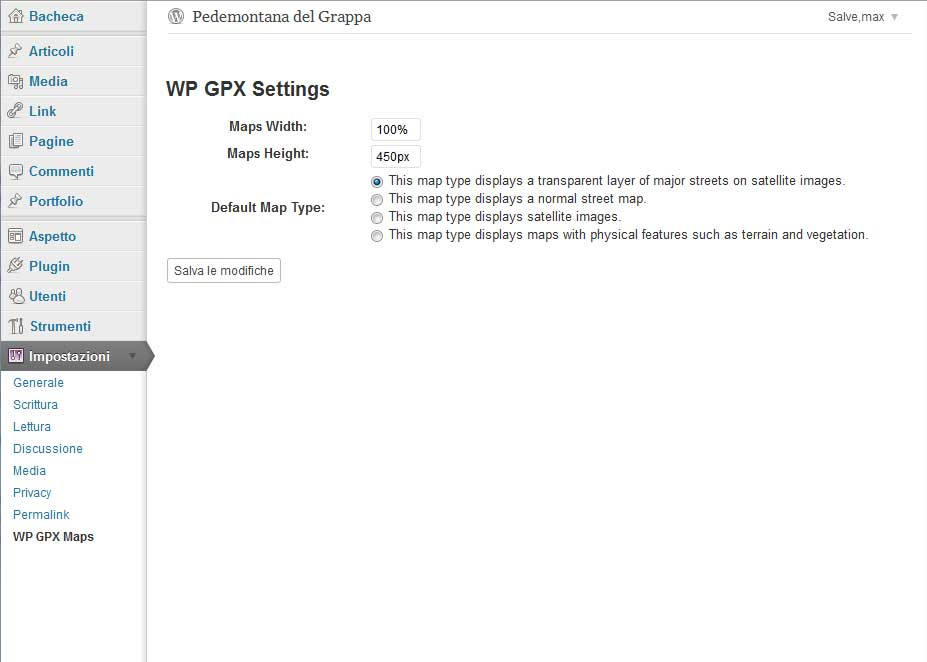
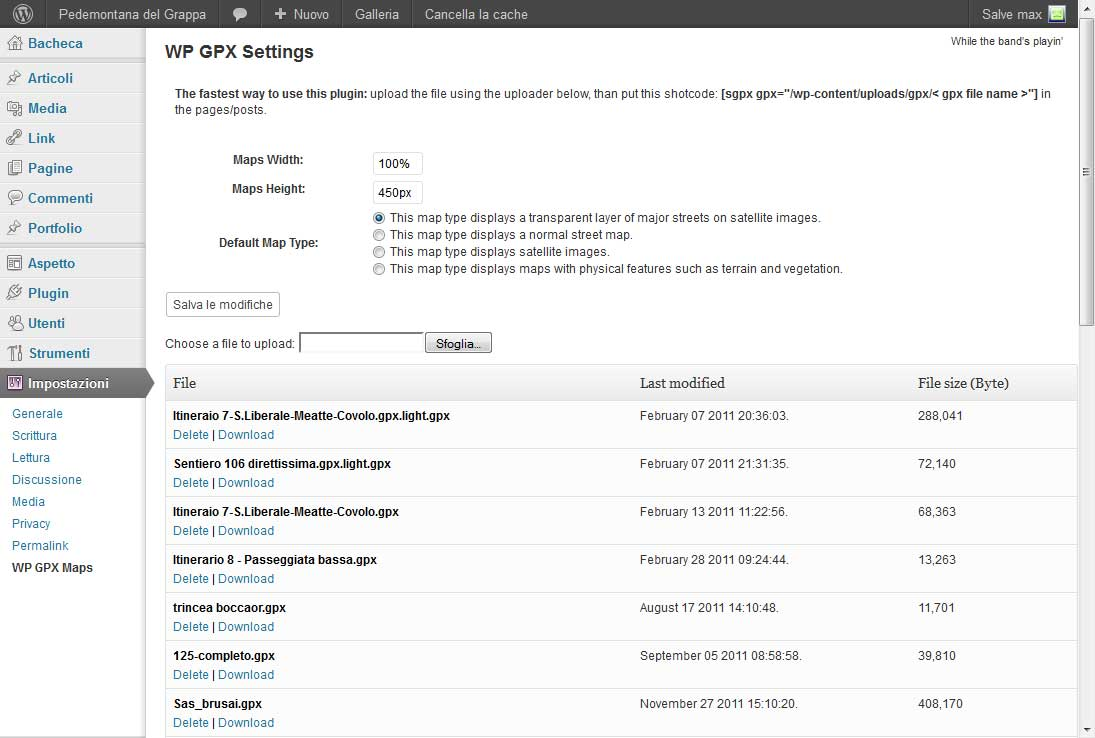
git-svn-id: https://plugins.svn.wordpress.org/wp-gpx-maps/trunk@475962 b8457f37-d9ea-0310-8a92-e5e31aec5664

diff --git a/wp-gpx-maps.php b/wp-gpx-maps.php
@@ -2,8 +2,8 @@
 /*
 Plugin Name: WP-GPX-Maps
 Plugin URI: http://www.darwinner.it/
-Description: Add a gpx track with altitude graph
-Version: 1.0.1
+Description: Add a gpx trak with altitude graph
+Version: 1.0.2
 Author: Bastianon Massimo
 Author URI: http://www.pedemontanadelgrappa.it/
 License: GPL
@@ -24,8 +24,6 @@ function enqueue_WP_GPX_Maps_scripts()
 	<script type='text/javascript' src='<?php echo plugins_url('/wp-gpx-maps.js', __FILE__) ?>'></script>
 <?php
 }
- 
- //add_shortcode('wpgpxmaps','handle_WP_GPX_Maps_Shortcodes');
  
  add_shortcode('sgpx','handle_WP_GPX_Maps_Shortcodes');
 
@@ -65,7 +63,7 @@ function enqueue_WP_GPX_Maps_scripts()
 			});
 			
 		</script>';	
- }
+}
 
 register_activation_hook(__FILE__,'WP_GPX_Maps_install'); 
 register_deactivation_hook( __FILE__, 'WP_GPX_Maps_remove');
@@ -81,9 +79,7 @@ function WP_GPX_Maps_remove() {
 	delete_option('wpgpxmaps_height');
 	delete_option('wpgpxmaps_map_type');
 }
-?>
 
-<?php
 if ( is_admin() ){
 
 	add_action('admin_menu', 'wpgpxmaps_admin_menu');
@@ -92,58 +88,191 @@ if ( is_admin() ){
 		add_options_page('WP GPX Maps', 'WP GPX Maps', 'administrator', 'WP-GPX-Maps', 'WP_GPX_Maps_html_page');
 	}
 }
+
+function WP_GPX_Maps_html_page() {
+
+	$realGpxPath = substr (__FILE__, 0, strrpos(__FILE__,'/wp-content/'))."/wp-content/uploads/gpx";
+	$gpxRegEx = '/.gpx$/';
+
 ?>
+
+<div>
+<h2>WP GPX Settings</h2>	
 
 <?php
-function WP_GPX_Maps_html_page() {
+	
+	if(file_exists($realGpxPath) && is_dir($realGpxPath))
+	{
+		//dir exsist!
+	}
+	else
+	{
+		if (!@mkdir($dir)) {
+			echo '<div class="error" style="padding:10px">
+					Can\'t create <b>'.$realGpxPath.'</b> folder. Please create it and make it writable!<br />
+					If not, you will must update the file manually!
+				  </div>';
+		}
+	}
+
 ?>
-<div>
-<h2>WP GPX Settings</h2>
+
+<div style="padding:10px 10px 30px 10px;">
+	<b>Tips:</b> The fastest way to use this plugin upload the fule using the uploader below, than put this 
+				shotcode: <b>[sgpx gpx="/wp-content/uploads/gpx/&lt gpx file name &gt"]</b> in the pages/posts.
+</div>
 
 <form method="post" action="options.php">
-<?php wp_nonce_field('update-options'); ?>
 
-<table width="100%">
-	<tr valign="top">
-		<th width="200" scope="row">Maps Width:</th>
-		<td>
-			<input name="wpgpxmaps_width" type="text" id="wpgpxmaps_width" value="<?php echo get_option('wpgpxmaps_width'); ?>" style="width:50px;" />
-		</td>
-	</tr>
-	<tr valign="top">
-		<th width="200" scope="row">Maps Height:</th>
-		<td>
-			<input name="wpgpxmaps_height" type="text" id="wpgpxmaps_height" value="<?php echo get_option('wpgpxmaps_height'); ?>" style="width:50px;" />
-		</td>
-	</tr>
-	<tr>
-		<th width="200" scope="row">Default Map Type:</th>
-		<td>
-		
-			<?php 
-				$t = get_option('wpgpxmaps_map_type');
-				if (!($t))
-					$t = 'HYBRID';
-			?>
-			
-			<input type="radio" name="wpgpxmaps_map_type" value="HYBRID" <?php if ($t == 'HYBRID') echo 'checked'; ?> > This map type displays a transparent layer of major streets on satellite images.<br />
-			<input type="radio" name="wpgpxmaps_map_type" value="ROADMAP" <?php if ($t == 'ROADMAP') echo 'checked'; ?>> This map type displays a normal street map.<br />
-			<input type="radio" name="wpgpxmaps_map_type" value="SATELLITE" <?php if ($t == 'SATELLITE') echo 'checked'; ?>> This map type displays satellite images.<br />
-			<input type="radio" name="wpgpxmaps_map_type" value="TERRAIN" <?php if ($t == 'TERRAIN') echo 'checked'; ?>> This map type displays maps with physical features such as terrain and vegetation.<br />
-			
-		</td>
-	</tr>
+	<?php wp_nonce_field('update-options'); ?>
 
-</table>
+	<table width="100%">
+		<tr valign="top">
+			<th width="200" scope="row">Maps Width:</th>
+			<td>
+				<input name="wpgpxmaps_width" type="text" id="wpgpxmaps_width" value="<?php echo get_option('wpgpxmaps_width'); ?>" style="width:50px;" />
+			</td>
+		</tr>
+		<tr valign="top">
+			<th width="200" scope="row">Maps Height:</th>
+			<td>
+				<input name="wpgpxmaps_height" type="text" id="wpgpxmaps_height" value="<?php echo get_option('wpgpxmaps_height'); ?>" style="width:50px;" />
+			</td>
+		</tr>
+		<tr>
+			<th width="200" scope="row">Default Map Type:</th>
+			<td>
+				<?php 
+					$t = get_option('wpgpxmaps_map_type');
+					if (!($t))
+						$t = 'HYBRID';
+				?>
+				<input type="radio" name="wpgpxmaps_map_type" value="HYBRID" <?php if ($t == 'HYBRID') echo 'checked'; ?> > This map type displays a transparent layer of major streets on satellite images.<br />
+				<input type="radio" name="wpgpxmaps_map_type" value="ROADMAP" <?php if ($t == 'ROADMAP') echo 'checked'; ?>> This map type displays a normal street map.<br />
+				<input type="radio" name="wpgpxmaps_map_type" value="SATELLITE" <?php if ($t == 'SATELLITE') echo 'checked'; ?>> This map type displays satellite images.<br />
+				<input type="radio" name="wpgpxmaps_map_type" value="TERRAIN" <?php if ($t == 'TERRAIN') echo 'checked'; ?>> This map type displays maps with physical features such as terrain and vegetation.<br />
+			</td>
+		</tr>
+	</table>
 
-<input type="hidden" name="action" value="update" />
+	<input type="hidden" name="action" value="update" />
 
-<p>
-<input type="submit" value="<?php _e('Save Changes') ?>" />
-</p>
+	<p>
+		<input type="submit" value="<?php _e('Save Changes') ?>" />
+	</p>
 
 </form>
+
+<?php
+
+	if ( isset($_POST['delete']) )
+	{
+		$del = $_POST['delete'];
+		if (preg_match($gpxRegEx, $del ) && file_exists($realGpxPath ."/". $del))
+		{
+			unlink($realGpxPath ."/". $del);
+		}
+	}
+
+	if ( is_readable ( $realGpxPath ) && $handle = opendir($realGpxPath)) { ?>
+	
+		<div class="tablenav top">
+			<form enctype="multipart/form-data" method="POST">
+				<input type="hidden" name="MAX_FILE_SIZE" value="100000" />
+				Choose a file to upload: <input name="uploadedfile" type="file" onchange="this.parentNode.submit()" />
+				<?php
+					if ( isset($_FILES['uploadedfile']) )
+					{
+						$target_path = $realGpxPath ."/". basename( $_FILES['uploadedfile']['name']); 
+						if (preg_match($gpxRegEx,$target_path ))
+						{
+							if(move_uploaded_file($_FILES['uploadedfile']['tmp_name'], $target_path)) {
+								echo "The file ".  basename( $_FILES['uploadedfile']['name']). " has been uploaded";
+							} else{
+								echo "There was an error uploading the file, please try again!";
+							}		
+						}
+						else
+						{
+							echo "file not supported!";
+						}
+					}
+				?>
+			</form>
+		</div>
+
+		<table cellspacing="0" class="wp-list-table widefat plugins">
+			<thead>
+				<tr>
+					<th style="" class="manage-column" id="name" scope="col">File</th>
+					<th style="" class="manage-column" id="name" scope="col">Last modified</th>
+					<th style="" class="manage-column" id="name" scope="col">File size (Byte)</th>
+				</tr>
+			</thead>
+
+			<tfoot>
+				<tr>
+					<th style="" class="manage-column" id="name" scope="col">File</th>
+					<th style="" class="manage-column" id="name" scope="col">Last modified</th>
+					<th style="" class="manage-column" id="name" scope="col">File size (Byte)</th>
+				</tr>
+			</tfoot>
+
+			<tbody id="the-list">
+			
+			<?php
+			while (false !== ($entry = readdir($handle))) {
+				if (preg_match($gpxRegEx,$entry ))
+				{
+				$file = $realGpxPath . "/" . $entry;
+				?>
+					<tr class="active" id="akismet">
+						<td class="plugin-title">
+							<strong><?php echo $entry; ?></strong>
+							<div class="row-actions-visible">
+								<a href="#" onclick="delgpx('<?php echo $entry ?>'); return false;">Delete</a>
+								|	
+								<a href="../wp-content/uploads/gpx/<?php echo $entry?>">Download</a>								
+							</div>
+						</td>
+						<td class="column-description desc">
+							<div class="plugin-description">
+								<p><?php echo date ("F d Y H:i:s.", filemtime( $file ) ) ?></p>
+							</div>
+						</td>
+						<td class="column-description desc">
+							<div class="plugin-description">
+								<p><?php echo number_format ( filesize( $file ) , 2, '.', ',' ) ?></p>
+							</div>
+						</td>
+					</tr>	
+				<?php
+				}
+			}
+			?>
+			</tbody>
+		</table>
+
+<?php 
+	closedir($handle);
+	} ?>
+
 </div>
+<script type="text/javascript">
+
+	function delgpx(file)
+	{
+		if (confirm('Delte this file: ' + file + '?'))
+		{
+			document.formdelgpx.delete.value = file;	
+			document.formdelgpx.submit();	
+		}
+	}
+
+</script>
+<form method="post" name="formdelgpx" style="display:none;">
+	<input type="hidden" name="delete" />
+</form>	
 <?php
 }
 ?>
